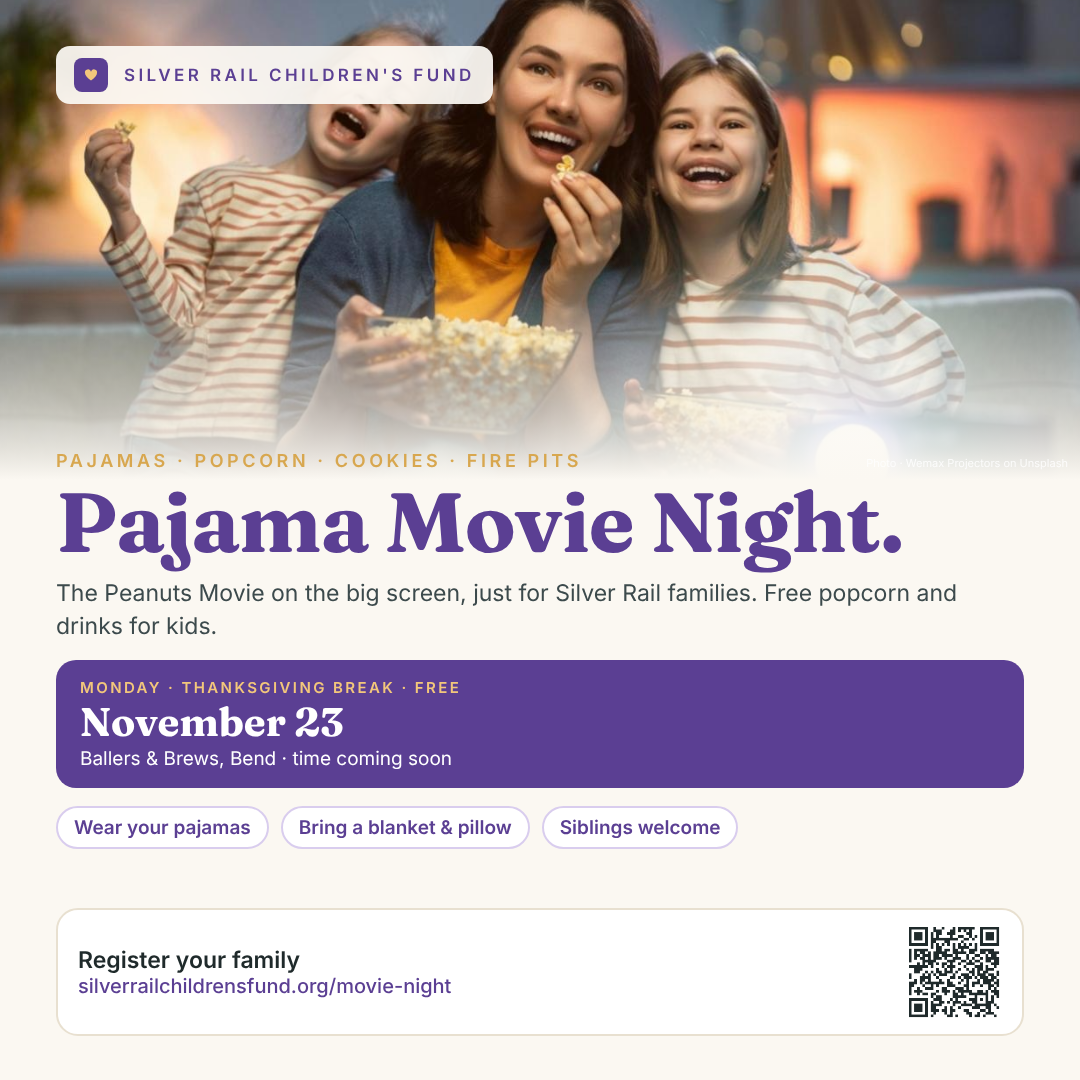
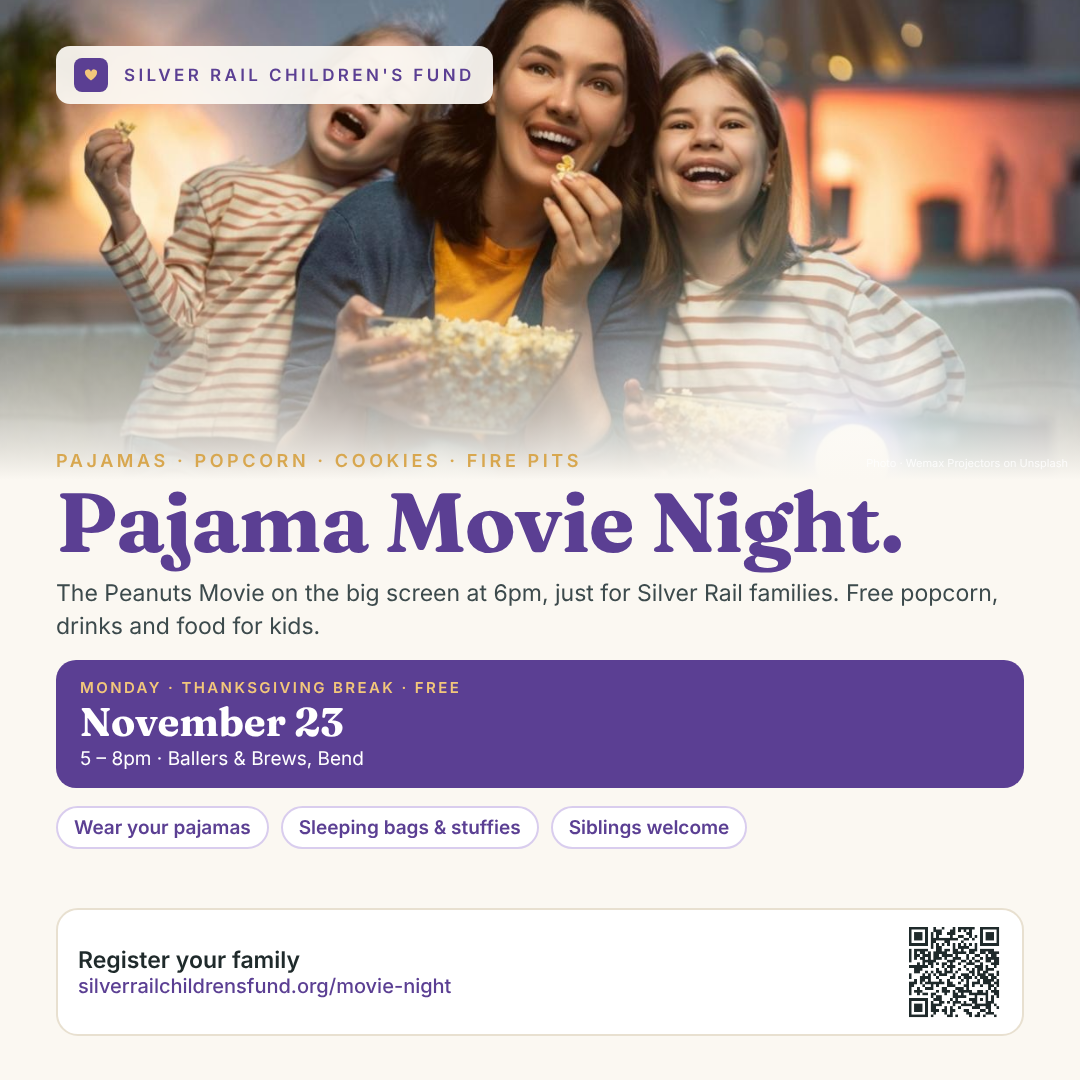
Movie night: 5-8 pm, movie at 6, kids food, stuffies
Claude-Session: https://claude.ai/code/session_01H4F1UGVh7mP2zmvnm3WNaY

diff --git a/movie-night.html b/movie-night.html
@@ -4,7 +4,7 @@
 <meta charset="utf-8">
 <meta name="viewport" content="width=device-width, initial-scale=1">
 <title>Pajama Movie Night — Silver Rail Children's Fund</title>
-<meta name="description" content="A free pajama movie night for Silver Rail families at Ballers &amp; Brews in Bend, Monday Nov 23. The Peanuts Movie, cookie decorating, fire pits, free popcorn and drinks for kids.">
+<meta name="description" content="A free pajama movie night for Silver Rail families at Ballers &amp; Brews in Bend, Monday Nov 23, 5 to 8 pm. The Peanuts Movie at 6, cookie decorating, fire pits, free popcorn and food for kids.">
 <meta name="theme-color" content="#5B3F93">
 <link rel="canonical" href="https://silverrailchildrensfund.org/movie-night.html">
 <meta property="og:title" content="Pajama Movie Night — Silver Rail Children's Fund">
@@ -180,7 +180,7 @@ footer.sf .sf-legal a{color:var(--ink-2)}
   <div class="wrap">
     <div class="eyebrow">For Silver Rail families · Thanksgiving break · Ballers &amp; Brews, Bend</div>
     <h1>Pajama Movie Night.</h1>
-    <p class="lede"><b>Monday, November 23. Exact time coming soon.</b> <i>The Peanuts Movie</i> on the big screen, cookie decorating, and cozy time together by the fire pits. Free popcorn and drinks for kids, and free for every Silver Rail family. The fund pays.</p>
+    <p class="lede"><b>Monday, November 23, 5 to 8 pm. The movie starts at 6.</b> <i>The Peanuts Movie</i> on the big screen, cookie decorating, and cozy time together by the fire pits. Free popcorn, drinks and food for kids, and free for every Silver Rail family. The fund pays.</p>
     <a class="btn" href="#register">Register your family</a>
   </div>
 </div>
@@ -191,9 +191,9 @@ footer.sf .sf-legal a{color:var(--ink-2)}
     <p class="credit">Photo: Wemax Projectors on Unsplash</p>
     <h2>The details.</h2>
     <div class="sess" style="max-width:860px;grid-template-columns:repeat(auto-fit,minmax(240px,1fr))">
-      <div class="card"><b>Mon, Nov 23</b><p>Time coming soon. We'll email everyone who registers as soon as it's confirmed.<br>Ballers &amp; Brews<br>20869 Redside Ct, Bend</p></div>
-      <div class="card"><b>What to bring</b><p>Wear your pajamas, and bring a sleeping bag or a blanket and pillow to get cozy for the movie.</p></div>
-      <div class="card"><b>Who's welcome</b><p>Silver Rail families only: students, siblings and grown-ups. Free popcorn and drinks for kids.</p></div>
+      <div class="card"><b>Mon, Nov 23</b><p>5 to 8 pm<br>Movie starts at 6 pm<br>Ballers &amp; Brews<br>20869 Redside Ct, Bend</p></div>
+      <div class="card"><b>What to bring</b><p>Wear your pajamas, and bring a sleeping bag or blanket, a pillow and your favorite stuffie to get cozy for the movie.</p></div>
+      <div class="card"><b>Who's welcome</b><p>Silver Rail families only: students, siblings and grown-ups. Free popcorn, drinks and food for kids.</p></div>
     </div>
   </div>
 </section>

diff --git a/parents.html b/parents.html
@@ -178,9 +178,9 @@ footer.sf .sf-legal a{color:var(--ink-2)}
     <div class="event">
       <img src="assets/movie-night-square.png" alt="Pajama Movie Night for Silver Rail families, Monday November 23 at Ballers &amp; Brews">
       <div>
-        <div class="eyebrow">Monday, Nov 23 · time coming soon · Ballers &amp; Brews, Bend · free</div>
+        <div class="eyebrow">Monday, Nov 23 · 5–8 pm, movie at 6 · Ballers &amp; Brews, Bend · free</div>
         <h2 style="margin-bottom:.3em">Pajama Movie Night.</h2>
-        <p><i>The Peanuts Movie</i> on the big screen, cookie decorating and fire pits, just for Silver Rail families. Wear pajamas and bring a blanket and pillow. Free popcorn and drinks for kids.</p>
+        <p><i>The Peanuts Movie</i> on the big screen, cookie decorating and fire pits, just for Silver Rail families. Wear pajamas and bring a sleeping bag, pillow and stuffie. Free popcorn, drinks and food for kids.</p>
         <p style="margin:0"><a class="btn" href="movie-night.html#register">Register your family</a> &nbsp; <a href="movie-night.html" style="font-weight:600">Details →</a></p>
       </div>
     </div>
